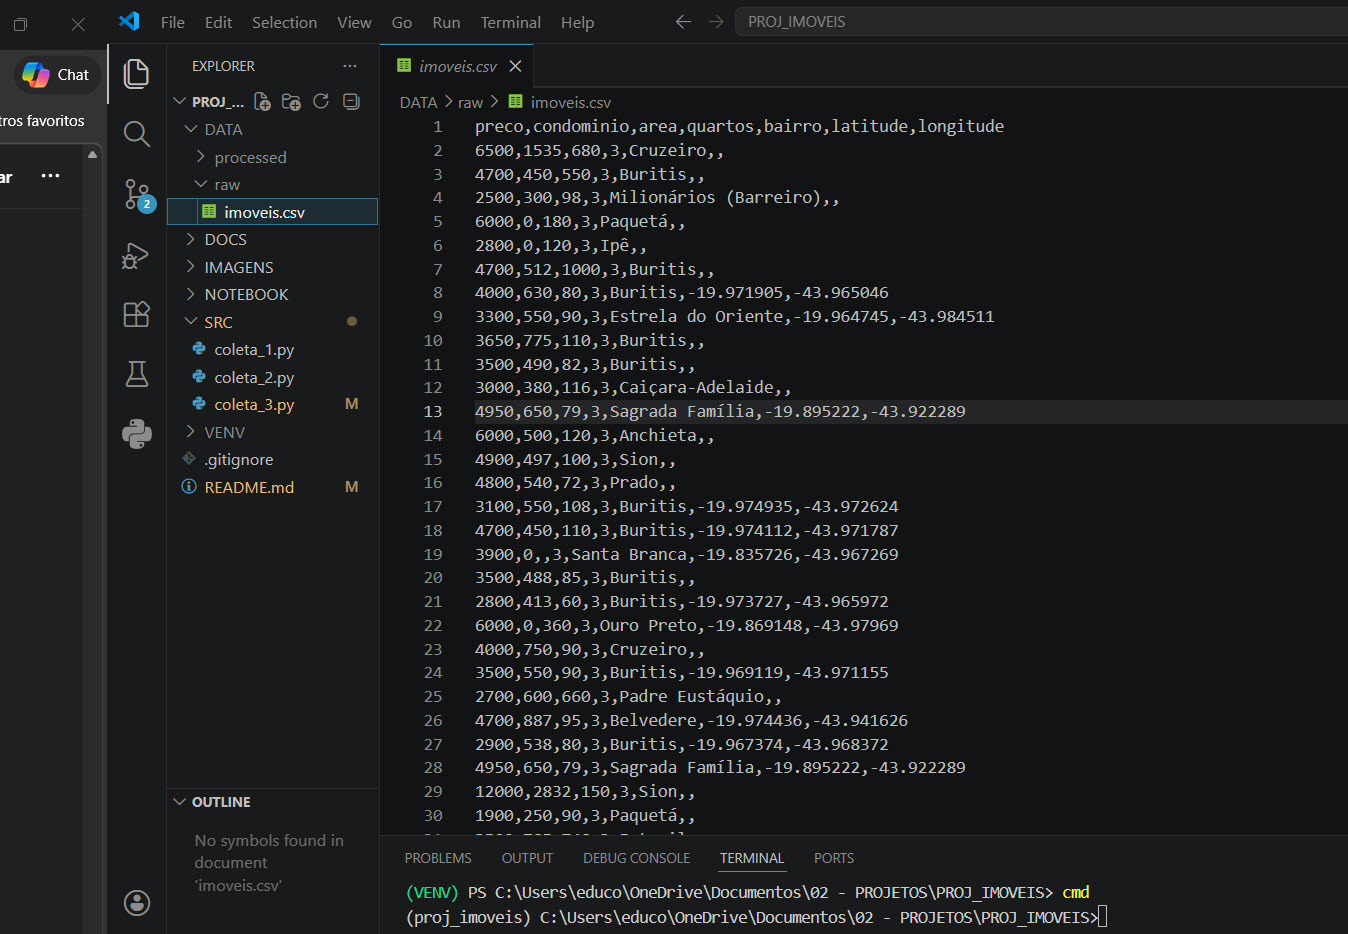
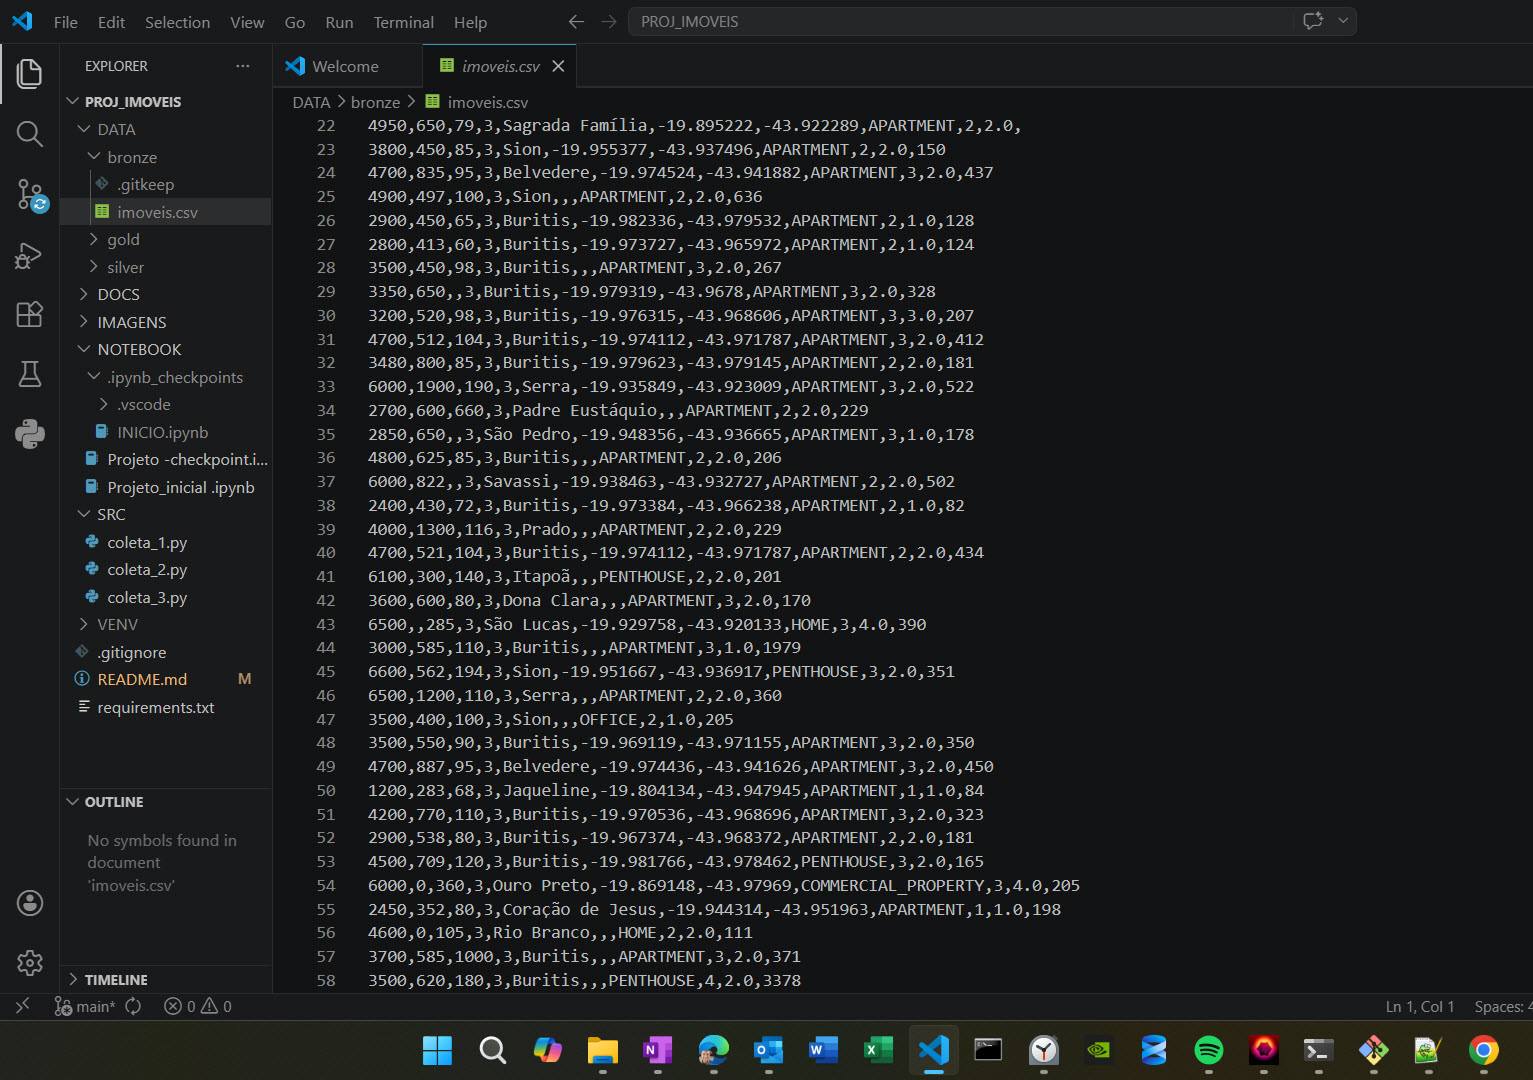
IMAGEMS: atualizado o arquivo de imagem ; README: adicionado o campo aprendizado

diff --git a/README.md b/README.md
@@ -71,7 +71,7 @@ com Python 3.11.
 
 3. coleta_02.py  - Script com ajustado para trazer os tipos de dados  (preço, area, bairro, quartos, estrutura) dos imoveis para montar o loop que ira coletar e transformar no dataframe deste projeto 
 
-4. coleta_03.py - Script usado atraves do tipo de dados acima ,criar o loop para buscar na api e montar o dataframe
+4. coleta_03.py - Script usado atraves do tipo de dados acima ,criar o loop para buscar na api e montar o dataframe, foi atualizado para acrescentar outros dados  dos imoveis para um dataset mais completo  
 
 ## Limitações conhecidas
 